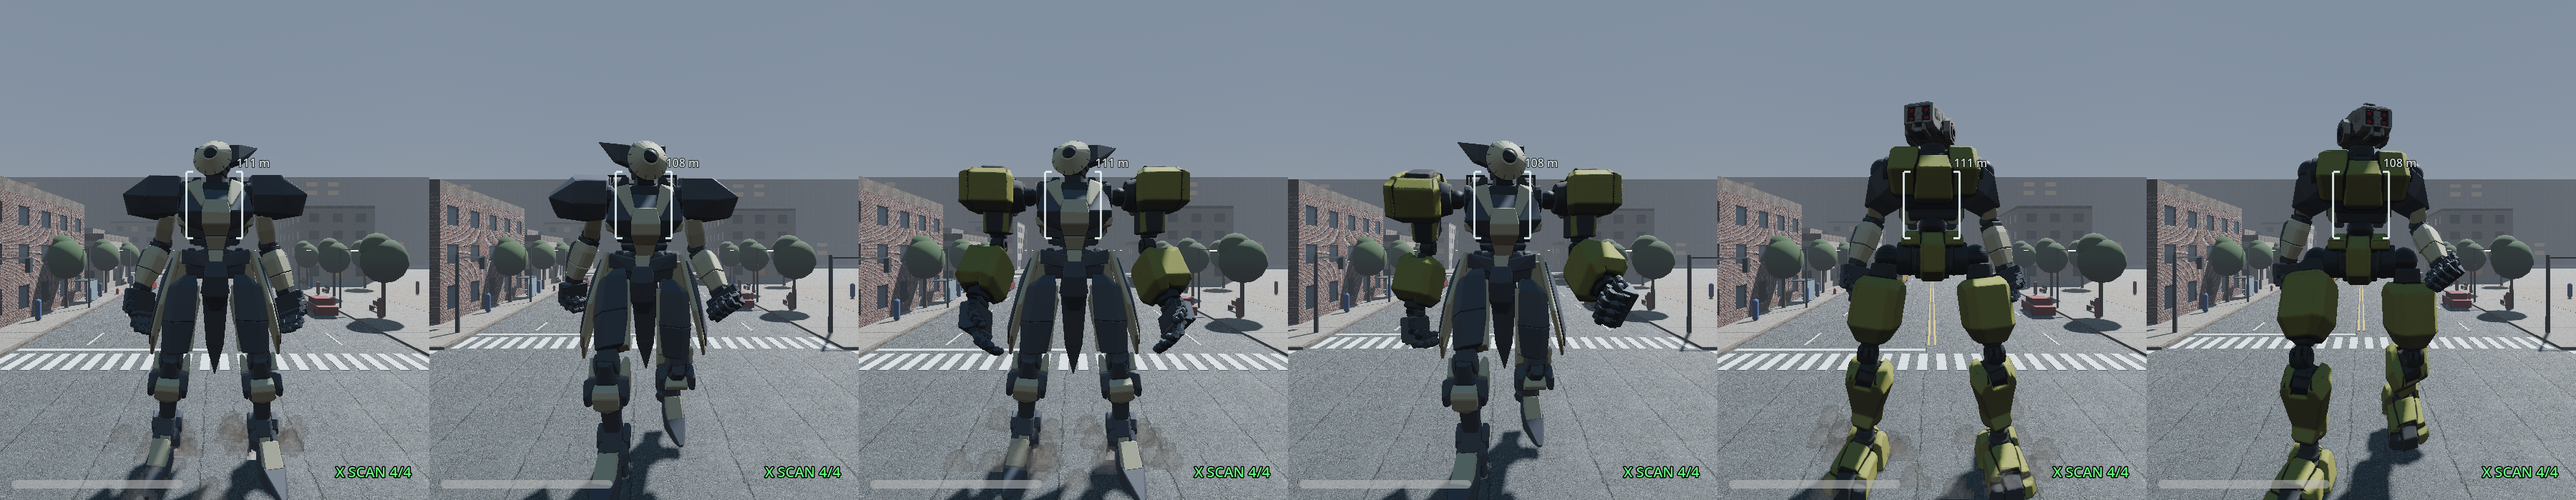
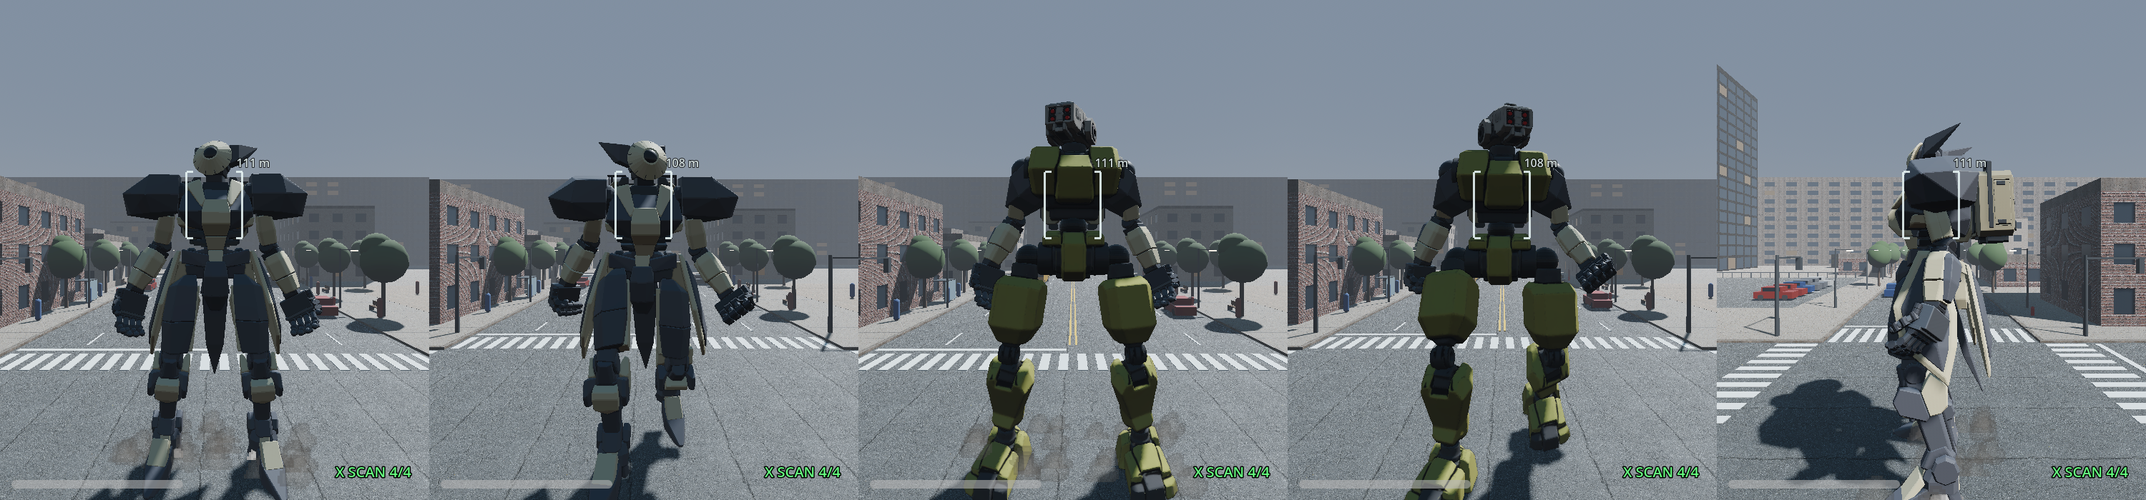
HLY relaxed hands clear the skirts (-2.25, -0.669, -0.3); shoulder ball check in test_garage_swap; picture
Claude-Session: https://claude.ai/code/session_01KUmA775JhRgugrtqEEMFfJ

diff --git a/DESIGN.md b/DESIGN.md
@@ -754,7 +754,7 @@ Waist ball joint (user 2026-11-08: "The torso should be joined at the hip 'ball 
 
 Shoulder balls and neutral arms (user 2026-11-08: "HLY body + SGG arms = disconnected and floating arms. Fix. Make HLY walking arms position as neutral arms position."):
 - Shoulder balls: SGG's arm parts hold a shoulder ball (`Arm_L/R_Shoulder_Joint`, radius about 0.25 m, centered on the upper arm origin) skinned to the torso. On a core of another rig the arm hangs from that core's shoulder, but the ball stayed at SGG's shoulder place (0.26 m higher and further out on HLY), and the SGG block left a 0.24 m gap to HLY's shoulder socket. `SkeletalPartModels._join_shoulders` now moves such torso binds of an arm part onto its upper arm whenever the shoulder is not where the arm's own rig has it (same way as the waist ball, `_rebind`), so the ball sits on the joint and fills the gap. `test_garage_swap.gd` checks it.
-- Neutral arms: the arm rig swings each arm from its neutral arm (rule 2026-10-11: the flat shoulder block). HLY has no flat block mesh, so its neutral arm was the rest A-pose (elbow 1.05 m out from the shoulder), and its relaxed hand marker was SGG's (-2.1, -0.82, -1.95), so the standing arms stood out and forward. Now an arm part brings both: `ArmPart.neutral_turn` (the upper arm's local turn; Haliya: the mean of its Walk clip, written by `tools/godot/write_arm_neutral_data.gd`; `SkeletalArmRig.neutral_turn_left/right`, used only for an arm with no flat block) and `ArmPart.relaxed_hand` (torso space, left; the right arm takes the mirror; Haliya (-1.97, -0.669, -0.121), the Walk clip's mean palm place; SGG (-2.1, -0.82, -1.95) as before). `SkeletalPartModels` puts them on the arm rig and the hang markers, so an arm hangs the same on any legs. The Haliya scene's marker is the same value (`build_sanggigilid.gd` HALIYA_FREE_LEFT_HAND). Standing HLY: elbow 0.32 m out (Walk clip 0.33), palm under the shoulder, a little behind; the walk swings about that place. SGG arms on HLY keep their flat block and SGG's hang; HLY arms on SGG hang as on HLY.
+- Neutral arms: the arm rig swings each arm from its neutral arm (rule 2026-10-11: the flat shoulder block). HLY has no flat block mesh, so its neutral arm was the rest A-pose (elbow 1.05 m out from the shoulder), and its relaxed hand marker was SGG's (-2.1, -0.82, -1.95), so the standing arms stood out and forward. Now an arm part brings both: `ArmPart.neutral_turn` (the upper arm's local turn; Haliya: the mean of its Walk clip, written by `tools/godot/write_arm_neutral_data.gd`; `SkeletalArmRig.neutral_turn_left/right`, used only for an arm with no flat block) and `ArmPart.relaxed_hand` (torso space, left; the right arm takes the mirror; Haliya (-2.25, -0.669, -0.3): the Walk clip's mean palm place (-1.97, -0.669, -0.121) moved 0.28 m out and 0.18 m forward, so the hands clear the skirt plates (test_clip_self rest: 131 points into the skirts at the clip place, 0 here); SGG (-2.1, -0.82, -1.95) as before). `SkeletalPartModels` puts them on the arm rig and the hang markers, so an arm hangs the same on any legs. The Haliya scene's marker is the same value (`build_sanggigilid.gd` HALIYA_FREE_LEFT_HAND). Standing HLY: elbow 0.32 m out (Walk clip 0.33), hands beside the skirts; the walk swings about that place. Picture `docs/hly_neutral_arms_and_shoulders.png` (HLY stand and walk, HLY arms on SGG stand and walk, HLY side). SGG arms on HLY keep their flat block and SGG's hang; HLY arms on SGG hang as on HLY.
 
 ## Three rigs (user request 2026-11-05)
 
